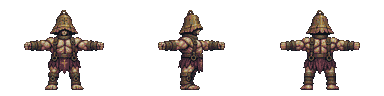
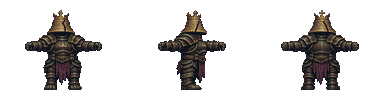
Redesign the Bell Executioner with crowned bell armor and royal execution axe in 0.6.11

Changed region(s): [[0.7188, 0.0938, 0.9375, 0.9375], [0.0625, 0.0938, 0.2812, 0.9375], [0.4062, 0.0938, 0.5938, 0.9375]]

diff --git a/flesh-and-vow/ART_DIRECTION.md b/flesh-and-vow/ART_DIRECTION.md
@@ -184,3 +184,15 @@
 и однократные сигналы сохраняются. Передача управления оставляет окно
 для реакции. Подход к двери сопровождается далёким колоколом и скрежетом;
 зал и бой имеют тихую звуковую основу. Хор и голос второй фазы ещё впереди.
+
+
+## Внешность палача · 0.6.11
+
+По уточнению пользователя переработаны силуэт, броня и оружие. Закрытый
+треснувший колокол венчает расколотая корона; лицо скрыто. Широкие слоистые
+наплечники, тёмная клёпаная кираса с королевским знаком, латные перчатки
+и сапоги заменяют светлую обнажённую плоть. Бордовый табард сохраняет
+цветовой акцент. Новая широкая секира имеет отдельный атлас 42×28,
+координата хвата (0.12 ширины, 11 пикселей). Длина оружия и боевая
+геометрия прежние. Тело остаётся единой сеткой с тремя видами 128×96.
+Арт-мастера и записи проверки в публичную поставку не входят.

diff --git a/flesh-and-vow/BOSS_ROADMAP.md b/flesh-and-vow/BOSS_ROADMAP.md
@@ -71,6 +71,15 @@
 - Новые небольшие выпуски публикуем в Isedis/basket по разрешению пользователя.
   Личные записи проверки и крупные арт-мастера остаются частными.
 
+## Уточнение пользователя: переработка внешности · 0.6.11
+
+После вступления пользователь отдельно выбрал переработку силуэта, брони
+и оружия. Приоритетный дополнительный шаг: закрытый треснувший колокол
+с расколотой короной, широкие наплечники, чёрная латная броня, тяжёлая
+палаческая секира с королевским знаком. Новый образ собран в трёх ракурсах
+на прежней непрерывной сетке; длины рук, хват и параметры боя сохранены.
+Это изменение внешности не завершает остальные этапы постановки.
+
 ## Выполненный шаг и продолжение
 
 0.6.10: полное первое появление (5,6 с), короткая повторная попытка (1,2 с),

diff --git a/flesh-and-vow/TESTING.md b/flesh-and-vow/TESTING.md
@@ -142,3 +142,8 @@ graphics now renders 920 silhouettes including both entrance variants.
 Private real-game footage exercises the actual approach room, full entrance
 and short retry with world/HUD rendering and original audio. It uses
 controlled room setup and does not establish balance or subjective grandeur.
+
+0.6.11: redesigned armor validated with 4660 anatomy checks and 920
+rendered poses (zero detached chunks). The whole-body mesh and physical
+arm/weapon positions remain unchanged. A separate axe texture retains
+the shaft grip and 84-world-pixel overall length.

diff --git a/flesh-and-vow/THIRD_PARTY.md b/flesh-and-vow/THIRD_PARTY.md
@@ -78,3 +78,7 @@ Private review captures are not exported or published with the game.
 Version 0.6.10: boss_hall.wav, boss_theme.wav, boss_gate.wav and boss_draw.wav
 are original deterministic additive/noise synthesis for this project. No
 third-party recordings or music are used. Private review captures stay private.
+
+0.6.11: redesigned boss body and axe are original AI-assisted artwork for
+this project, adapted through the native pixel-art import pipeline. No
+Elden Ring or other third-party game assets are included.

diff --git a/flesh-and-vow/README.md b/flesh-and-vow/README.md
@@ -1,4 +1,4 @@
-# Плоть и Обет — прототип 0.6.10
+# Плоть и Обет — прототип 0.6.11
 
 Оригинальный одиночный roguelike с ближним боем, созданный на Godot 4.
 Язык — русский. Для работы в редакторе требуется Godot 4.6.3.
